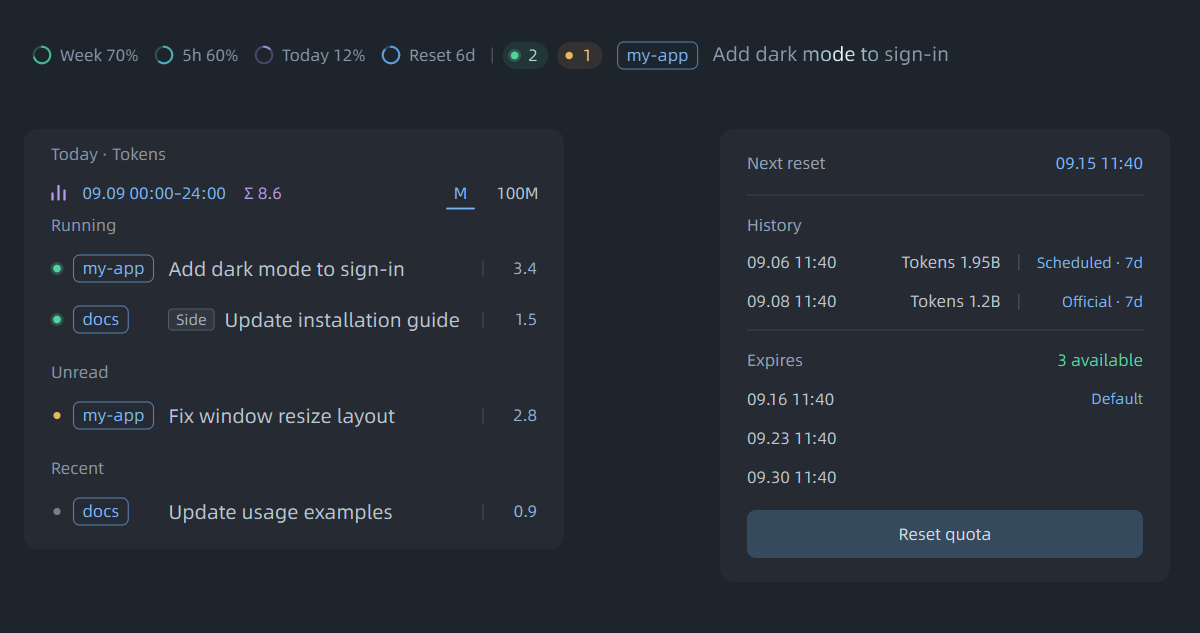
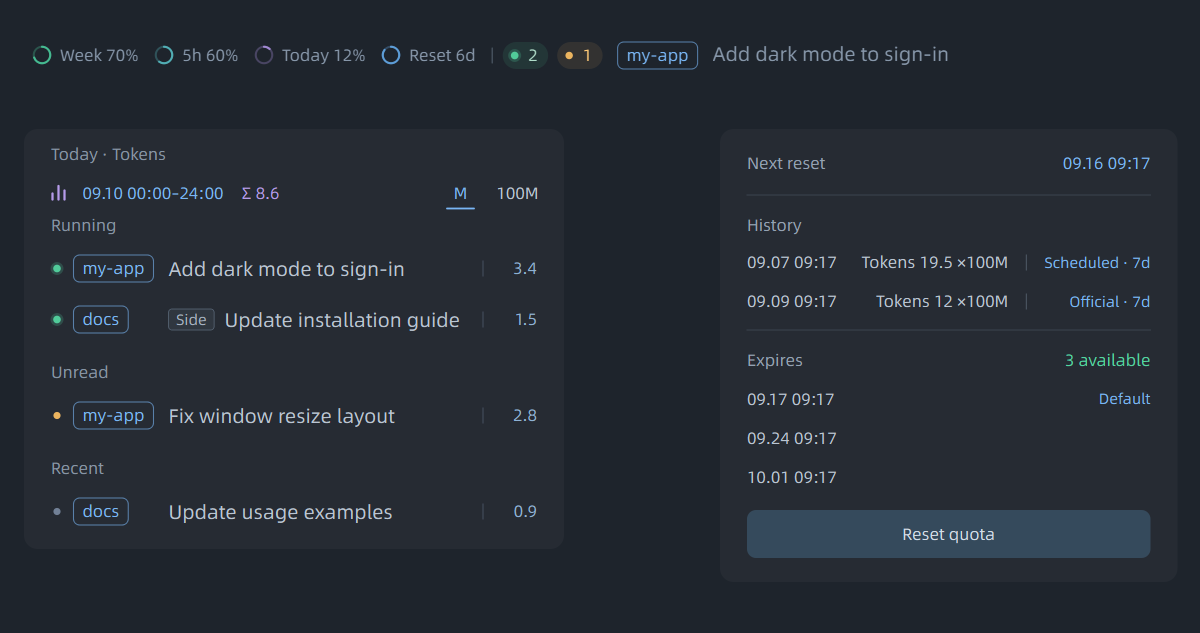
fix(ui): 历史用量统一按100M显示
历史记录始终按亿缩放，中文/日文使用亿/億，英文/西文显示×100M，单位仍附在每行；保留排序与分类样式。验证：41项交互检查、真实记录渲染、示例图同步和本机安装哈希/设置保留。

diff --git a/tests/test_interactions.py b/tests/test_interactions.py
@@ -275,18 +275,25 @@ class InteractionTests(unittest.TestCase):
 
     def test_history_rows_identify_usage_and_units_and_use_blue_categories(self):
         self.data['reset_events']=[{'kind':'scheduled','at':datetime.now().timestamp(),'tokens':2036647183,'windows':['10080']}]
-        for language,expected in [('en','Tokens 2.037B'),('zh-CN','用量 20.37 亿'),('ja','使用量 20.37 億'),('es','Tokens 2.037B')]:
+        for language,expected in [('en','Tokens 20.37 ×100M'),('zh-CN','用量 20.37 亿'),('ja','使用量 20.37 億'),('es','Tokens 20.37 ×100M')]:
             self.bar.settings['language']=language
             panel=app.ResetPopup(self.bar);panel.refresh(self.data)
             with patch('codex_taskbar.app.text',wraps=app.text) as draw:panel.grab()
             labels=[call.args[3] for call in draw.call_args_list]
             self.assertIn(expected,labels);self.assertIn(self.bar.label('History'),labels)
-            self.assertFalse(any('100M' in value for value in labels))
+            self.assertNotIn('History · 100M',labels)
             category=next(call for call in draw.call_args_list if call.args[3]==panel.history_label(self.data['reset_events'][0]))
             self.assertEqual(category.args[5],app.BLUE)
             self.assertEqual(panel.history_usage({'tokens':None}),self.bar.label('Tokens')+' —')
             self.assertGreater(panel.history_divider,panel.token_right)
             panel.close();panel.deleteLater()
+
+    def test_history_uses_100m_for_both_small_and_large_totals(self):
+        panel=app.ResetPopup(self.bar)
+        self.assertEqual(panel.history_usage({'tokens':521911499}),'Tokens 5.22 ×100M')
+        self.assertEqual(panel.history_usage({'tokens':1_000_000_000}),'Tokens 10 ×100M')
+        self.assertEqual(panel.history_usage({'tokens':0}),'Tokens 0 ×100M')
+        panel.close();panel.deleteLater()
 
     def test_history_window_labels_depend_on_event_not_current_account_windows(self):
         panel=app.ResetPopup(self.bar)

diff --git a/codex_taskbar/app.py b/codex_taskbar/app.py
@@ -893,11 +893,9 @@ class ResetPopup(TaskPopup):
     def history_usage(self,row):
         tokens=row.get('tokens')
         if tokens is None:value='—'
-        elif self.owner.language in ('zh-CN','ja'):
-            value=chart_number(tokens,'100M')+(' 亿' if self.owner.language=='zh-CN' else ' 億')
-        elif tokens>=1_000_000_000:
-            value=f'{tokens/1_000_000_000:.3f}'.rstrip('0').rstrip('.')+'B'
-        else:value=chart_number(tokens,'M')+'M'
+        else:
+            unit={'zh-CN':'亿','ja':'億'}.get(self.owner.language,'×100M')
+            value=chart_number(tokens,'100M')+' '+unit
         return self.owner.label('Tokens')+' '+value
 
     def history_label(self,row):

diff --git a/docs/specs/interaction.md b/docs/specs/interaction.md
@@ -62,7 +62,7 @@ Codex侧边聊天是临时会话，不进入普通任务列表和持久化rollou
 
 主任务或关联侧边聊天任一运行时，主任务计为Running且只计一次。底栏与列表在项目标记后绘制中性色Side小方形标签，标签与任务名分开，长标题滚动时标签保持可见；只有侧边聊天运行时，时长取其当前运行轮次。侧边结束后重新按主任务真实状态展示。普通分叉、子代理不合并。Codex桌面重启后不沿用旧临时运行态；日志不可用时不伪造侧边状态。日志格式变化仍是这层只读适配的限制。
 
-重置历史每行显示该次重置前一个阶段的本机Token总量，标题只显示History，每行增加用量说明与单位；中文和日文使用亿/億，英文和西文使用M/B；用量与分类之间增加细竖线。区间为前一次记录时刻到本次记录时刻，首条优先用其原窗口起点；无边界依据时留空。复用UsageCursor的累计差分和分叉继承排除，首次回溯覆盖所需阶段，之后按原有日志增量累计；不重复扫描整份文件、不新增采样线程。阶段边界按观测时间划分，不能声称为账户跨设备精确额度或含未落盘临时会话用量。周图和日用量原有统计边界不变。
+重置历史每行显示该次重置前一个阶段的本机Token总量，标题只显示History，每行增加用量说明与单位；统一按100M缩放，中文和日文使用亿/億，英文和西文使用×100M，不按数值大小改用M/B；用量与分类之间增加细竖线。区间为前一次记录时刻到本次记录时刻，首条优先用其原窗口起点；无边界依据时留空。复用UsageCursor的累计差分和分叉继承排除，首次回溯覆盖所需阶段，之后按原有日志增量累计；不重复扫描整份文件、不新增采样线程。阶段边界按观测时间划分，不能声称为账户跨设备精确额度或含未落盘临时会话用量。周图和日用量原有统计边界不变。
 
 周图和日列表顶部分别保留“Cycle · Tokens”和“Today · Tokens”小标题；下方共用图标、日期周期、Σ Token总量、M / 100M单位切换。日列表日期为本地当天，总量使用现有今日累计Token，单位同时作用于总量与任务行。周图保留柱状图；状态与重置面板没有单位点击区域。
 

diff --git a/CHANGELOG.md b/CHANGELOG.md
@@ -4,6 +4,7 @@
 
 ## Unreleased
 
+- Use 100M consistently for reset-history totals; retain the unit on every row.
 - Left-align rotating values in a compact column after their labels, retaining the ring position.
 - Shorten the cycle-usage heading to “Cycle · Tokens” and update the translations.
 - Tighten the rotating slot to the current countdown format, retaining the ring position and stable width between rotations.

diff --git a/docs/i18n/CHANGELOG.zh-CN.md b/docs/i18n/CHANGELOG.zh-CN.md
@@ -4,6 +4,7 @@
 
 ## Unreleased
 
+- 重置历史统一按亿（100M）显示，每条记录保留单位，不再自动切换M/B。
 - 轮换数值改为靠近说明的左对齐列，保持圆环原位。
 - 周期用量标题精简为“Cycle · Tokens”，同步精简其他语言文案。
 - 按当前倒计时格式收紧轮换区，保持圆环原位和轮换过程中的宽度稳定。
